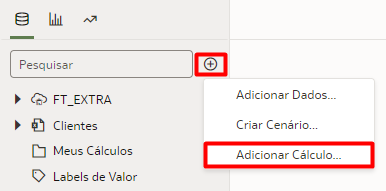
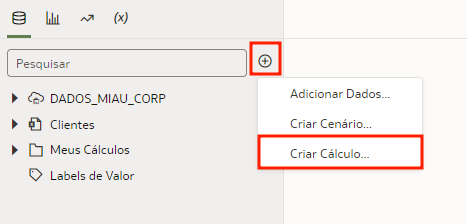
Fast Track - DA
Lab4 - T1/11 - texto e tela + T2/1 - texto + tela

Lab5 - T2/4 - Texto

Lab6 - T2 - Introdução

diff --git a/ft-create-visualizations/ft-create-visualizations.md b/ft-create-visualizations/ft-create-visualizations.md
@@ -2,7 +2,7 @@
 
 ## Introdução
 
-Neste Lab você vai aprender a criar visualizações no Oracle Analytics Cloud.
+Nesse Lab você vai aprender a criar visualizações no Oracle Analytics Cloud.
 
 [Oracle Video Hub video scaled to Large size](videohub:1_6xkzayss:large)
 
@@ -71,11 +71,11 @@ Na região central do menu superior da tela é possível alternar entre páginas
 
 ![Tela Dados.](./images/tela_dados.png)
 
-11. Na região central do menu superior da tela encontre e selecione a opção **Apresentar** para acessar a página que permite adicionar telas a uma apresentação.
+11. Na região central do menu superior da tela encontre e selecione a opção **Apresentar** para acessar a página que permite adicionar telas a uma apresentação. A esquerda, é possível encontrar as opções de **Pasta de Trabalho** e **Tela Ativa**, onde permite fazer configurações para a apresentação. Na região inferior é possível visualizar a ordem das telas para apresentação e, logo abaixo a direita, as opções de **Modo Automático** e **Alternar Painel de Dados**.
 
 ![Tela Apresentar.](./images/tela_apresentar.png)
 
-Outras opções de navegação são encontradas na região inferior da página.
+Outras opções de navegação são encontradas na região inferior da página na aba **Vizualizar**.
 
 12. Na região inferior direita da página encontre as opções de **Diretrizes de Grade**, **Brushing**, **Aplicar Dados Automaticamente**, **Alternar Painel de Dados** e **Alternar Painel de Gramática**.
 
@@ -91,7 +91,7 @@ O Oracle Analytics Cloud também permite a criação de campos calculados dentro
 
 Para explorar essa funcionalidade iremos criar um campo calculado que será utilizado ao longo deste laboratório.
 
-1.  Na barra lateral de opções, clique no simbolo indicado por um **+** e em seguida clique na opção **Adicionar Cálculo...**.
+1.  Na barra lateral de opções, clique no simbolo indicado por um **+** e em seguida clique na opção **Criar Cálculo...**.
 
 ![Menu Campo Calculado](./images/campocalc1.png)
 
@@ -336,4 +336,4 @@ Nesta sessão você aprendeu a criar um dashboard com visualizações básicas d
 ## Autoria
 
 - **Autores** - Guilherme Galhardo, Thais Henrique, Isabella Alvarez, Breno Comin, Isabelle Dias
-- **Último Updated Por/Data** - Guilherme Galhardo, Mar/2023
+- **Último Updated Por/Data** - Nataly Mafra, Jan/2024

diff --git a/ft-presentation/ft-presentation.md b/ft-presentation/ft-presentation.md
@@ -84,9 +84,9 @@ Agora explore as outras telas através da Barra de Navegação.
 
 ## Tarefa 2: Exportar Dashboards
 
-O Oracle Analytics Cloud (OAC) oferece algumas opções para exportação dos nossos Dashboards ou de um gráfico específico. Temos a possibilidade de exportar o arquivo, de imprimir e até [enviar por e-mail*](https://docs.oracle.com/en/cloud/paas/analytics-cloud/acabi/send-email-reports-and-track-deliveries.html#GUID-C5815E71-9348-4C13-BAB6-B5B0C887B3D6).
+O Oracle Analytics Cloud (OAC) oferece algumas opções para exportação dos nossos Dashboards ou de um gráfico específico. Temos a possibilidade de exportar o arquivo, de imprimir e até [enviar por e-mail*](https://docs.oracle.com/en/cloud/paas/analytics-cloud/acabi/send-email-reports-and-track-deliveries.html#GUID-C5815E71-9348-4C13-BAB6-B5B0C887B3D6). Além disso, a plataforma oferece a opção de Copiar Link ou scanear um QR Code.
 
-Para a exportar o arquivo temos diversões formatos disponíveis: PowerPoint(pptx), Acrobat(pdf), Imagem(png) e Pacote(dva) formato nativo do OAC.
+Para a exportar o arquivo temos diversões formatos disponíveis: PowerPoint(pptx), Acrobat(pdf), Imagem(png), Dados (csv) e Pacote(dva) formato nativo do OAC.
 
 Vamos exportar nosso dashboard em PDF para ser compartilhado de forma mais simples com usuários que não tem acesso ao OAC.
 
@@ -154,4 +154,4 @@ Nesta sessão você aprendeu a configurar o modo de apresentação e aprendeu a 
 ## Autoria
 
 - **Autores** - Thais Henrique, Isabella Alvarez, Breno Comin, Isabelle Dias, Guilherme Galhardo
-- **Último Update Por/Date** - Thais Henrique, Mar/2023
+- **Último Update Por/Date** - Nataly Mafra, Jan/2024

diff --git a/ft-advanced-visualizations/ft-advanced-visualizations.md b/ft-advanced-visualizations/ft-advanced-visualizations.md
@@ -80,7 +80,7 @@ Use a Formatação Condicional para destacar dados importantes em suas visualiza
 
 ![verificar campos](./images/din-table-18.png)
 
-4. Clique com o botão direito do mouse sobre a tabela dinâmica, selecione "Formatação Condicional" e clique em "Manage Rules".
+4. Clique com o botão direito do mouse sobre a tabela dinâmica, selecione "Formatação Condicional" e clique em "Gerenciar Regras".
 
 ![adicionar Formatação Condicional](./images/cond-form-19.png)
 
@@ -257,4 +257,4 @@ Nesta sessão você aprendeu a utilizar recursos avançados para criação de Da
 ## Autoria
 
 - **Autores** - Thais Henrique, Isabella Alvarez, Breno Comin, Isabelle Dias, Guilherme Galhardo
-- **Último Update Por/Date** - Guilherme Galhardo, Mar/2023
+- **Último Update Por/Date** - Nataly Mafra, Jan/24
